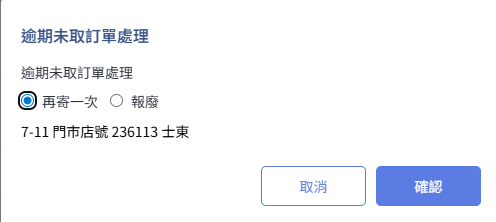
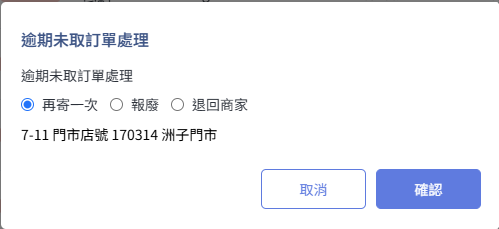
express宅配/7-11異常處理新增退回商家-需求池-winnie

diff --git a/docs/ec/app-market/express/cyberbiz-express-japan-to-taiwan-delivery.md b/docs/ec/app-market/express/cyberbiz-express-japan-to-taiwan-delivery.md
@@ -2,7 +2,7 @@
 title: CYBERBIZ EXPRESS 日到台跨境宅配
 description: 一站式日本跨境直送台灣物流服務，涵蓋開通設定、跨境商品報關資訊填寫及訂單出貨流程。
 created: 2026-03-03 00:00
-last_modified: 2026-07-27 14:30
+last_modified: 2026-10-13 10:40
 lang: zh-TW
 type: guide
 author: Ann
@@ -171,6 +171,26 @@ CYBERBIZ EXPRESS 是專為日台電商設計的一站式跨境物流服務。您
 ![](../../../assets/images/EC-後台-訂單-所有訂單-補印EXPRESS託運單01.png){ .screenshot }
 
 
+## 運送異常處理
 
+當配送出現異常，商家可選擇包裹處理方式：
+
+![](../../../assets/images/EC-後台-APPMARKET-EXPRESS-運送異常處理01.png){ .screenshot }
+
+=== "報廢"
+
+    - **實體處置**：包裹將由倉庫進行銷毀處置。
+    - **訂單變更**：原訂單配送狀態會標記為 **已報廢**，並於 **備註**  中註明 **商家選擇「報廢」**。
+
+=== "退回商家"
+
+    - **退回地址**：退回地址依 EXPRESS 基本設定頁的 **出貨地址** 欄位為準。
+    - **訂單變更**：原訂單配送狀態會標記為 **退回商家**，並於 **備註**  中註明 **商家選擇「退回商家」**。
+    - **費用說明**：選擇「退回商家」後，系統僅計算包裹退回峰潮倉庫的費用。包裹由峰潮倉庫寄回原商家的國際段運費，不會由系統計算或顯示於後台，實際費用將列於對帳單。由於多個包裹可能合併裝箱出貨，對帳單上的費用可能是多個包裹合併計算的單筆費用。
+
+
+!!! warning "包裹處理期限與費用"
+    - **處理期限**：商家需在 **15 天內** 選擇處理方式，否則系統將自動執行報廢。
+    - **帳務認列**：相關處理費用將會認列於每期對帳單中。
 
     

diff --git a/docs/ec/app-market/express/cyberbiz-express-711.md b/docs/ec/app-market/express/cyberbiz-express-711.md
@@ -200,9 +200,9 @@ CYBERBIZ EXPRESS 提供的 7-11 跨境超取服務，讓海外商家不須自行
 
 3. 商家可選擇包裹處理方式：
 
-    === "再寄一次"
+    ![](../../../assets/images/EC-後台-APPMARKET-EXPRESS-超商訂單逾期未取02.png){ .small-image }
 
-        ![](../../../assets/images/EC-後台-APPMARKET-EXPRESS-超商訂單逾期未取02.png){ .small-image }
+    === "再寄一次"
 
         - **配送限制**：僅支援寄回原門市，不可修改收件地址。
         - **訂單變更**：原訂單配送狀態將標記為 **已失效**，系統會自動建立一筆新託運單。
@@ -222,11 +222,14 @@ CYBERBIZ EXPRESS 提供的 7-11 跨境超取服務，讓海外商家不須自行
 
     === "報廢"
 
-        ![](../../../assets/images/EC-後台-APPMARKET-EXPRESS-超商訂單逾期未取03.png){ .small-image }
-
         - **實體處置**：包裹將由倉庫進行銷毀處置。
         - **訂單變更**：原訂單配送狀態會標記為 **已報廢**，並於 **備註**  中註明 **商家選擇「報廢」**。
 
+    === "退回商家"
+
+        - **退回地址**：退回地址依 EXPRESS 基本設定頁的 **出貨地址** 欄位為準。
+        - **訂單變更**：原訂單配送狀態會標記為 **退回商家**，並於 **備註**  中註明 **商家選擇「退回商家」**。
+        - **費用說明**：選擇「退回商家」後，系統僅計算包裹退回峰潮倉庫的費用。包裹由峰潮倉庫寄回原商家的國際段運費，不會由系統計算或顯示於後台，實際費用將列於對帳單。由於多個包裹可能合併裝箱出貨，對帳單上的費用可能是多個包裹合併計算的單筆費用。
 
     
     !!! warning "包裹處理期限與費用"
